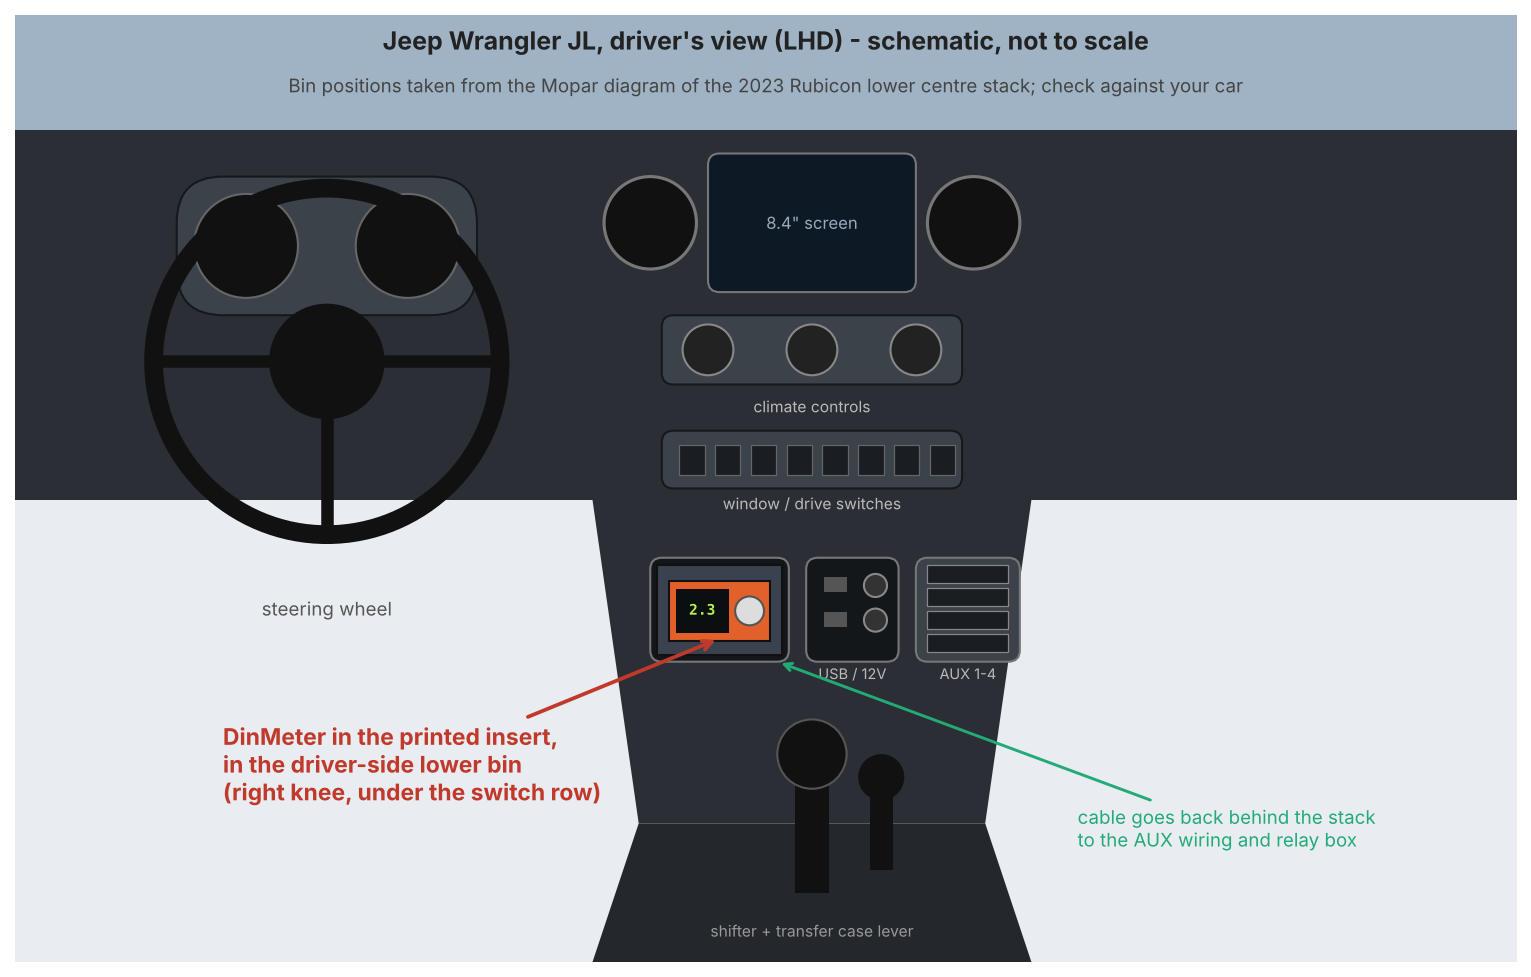
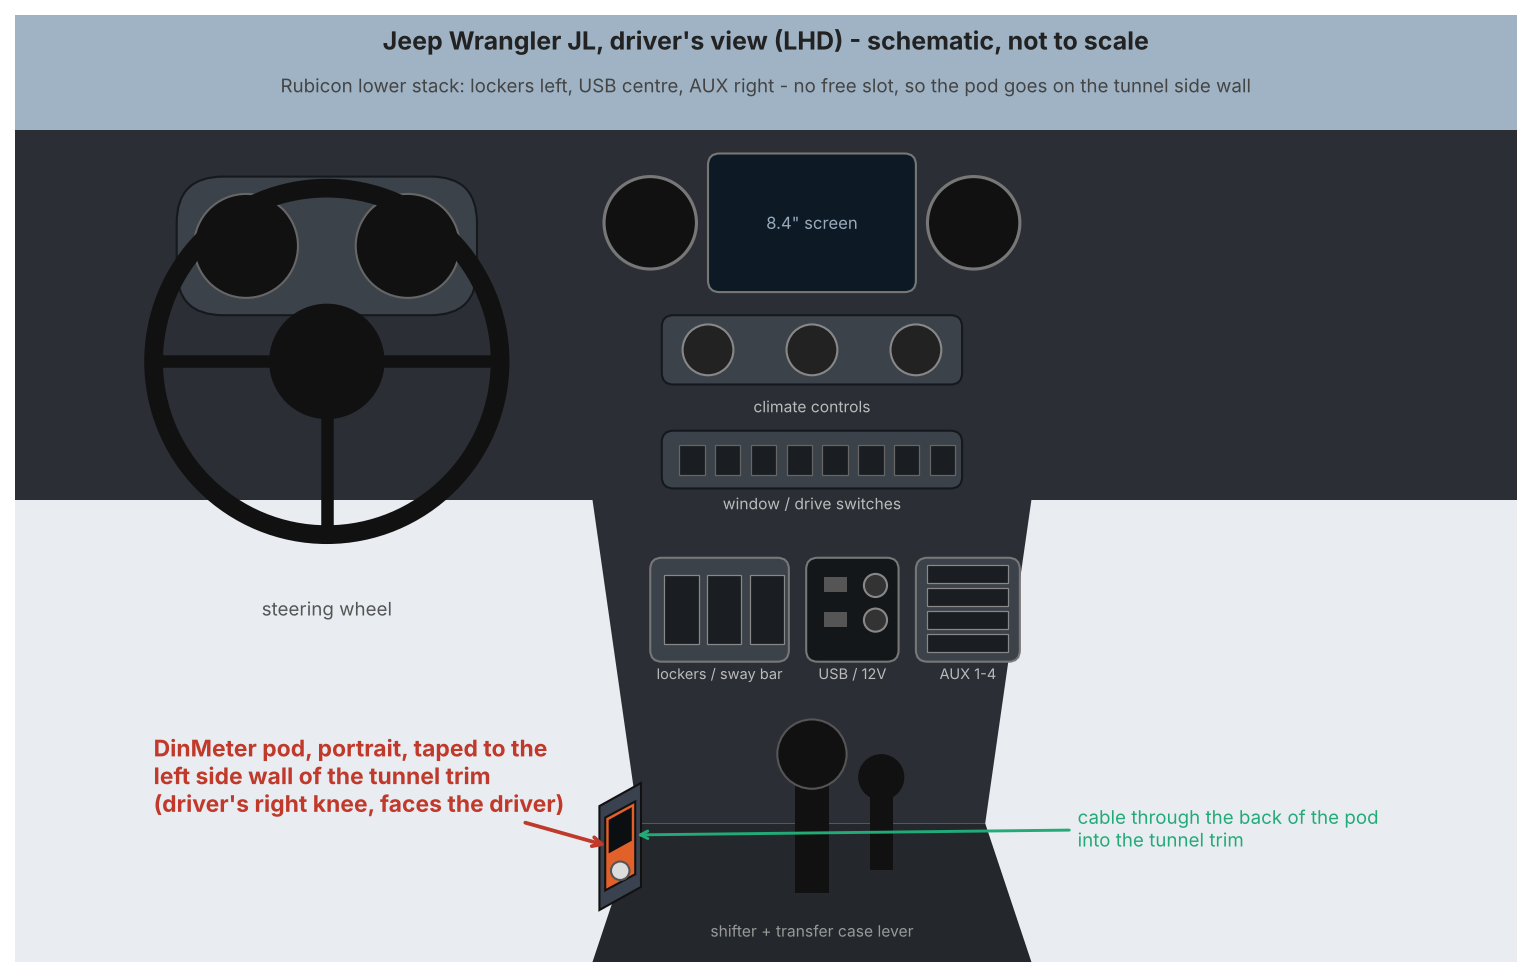
Interior sketch: Rubicon lower stack (lockers, USB, AUX), pod on the tunnel side wall
Claude-Session: https://claude.ai/code/session_018z5LvCZ9NFya6WZW91qW8w

diff --git a/hardware/enclosure/bin_insert/interior.py b/hardware/enclosure/bin_insert/interior.py
@@ -32,12 +32,14 @@ ax.add_patch(FancyBboxPatch((56,41),26,5,boxstyle='round,pad=0,rounding_size=1',
 for i in range(8): ax.add_patch(Rectangle((57.5+i*3.1,42.2),2.2,2.6,fc='#1a1d21',ec='#666',lw=.6))
 ax.text(69,39.2,'window / drive switches',ha='center',fontsize=7.5,color='#bbb')
 # lower stack: left bin with DinMeter, centre USB/12V, right AUX bank
-ax.add_patch(FancyBboxPatch((55,26),12,9,boxstyle='round,pad=0,rounding_size=1',fc='#14171a',ec='#777'))   # bin opening
-ax.add_patch(Rectangle((55.6,26.6),10.8,7.8,fc='#3a4250',ec='#111'))                                         # printed insert
-ax.add_patch(Rectangle((56.6,27.8),8.8,5.2,fc='#e2602a',ec='#111'))                                           # DinMeter front
-ax.add_patch(Rectangle((57.2,28.5),4.6,3.8,fc='#0c0f12'))
-ax.text(59.5,30.4,'2.3',color='#b6f34a',fontsize=7,ha='center',va='center',family='monospace',weight='bold')
-ax.add_patch(Circle((63.6,30.4),1.25,fc='#ddd',ec='#555'))
+ax.add_patch(FancyBboxPatch((55,26),12,9,boxstyle='round,pad=0,rounding_size=1',fc=trim,ec='#777'))
+for i in range(3): ax.add_patch(Rectangle((56.2+i*3.7,27.5),3,6,fc='#1a1d21',ec='#888',lw=.6))
+ax.text(61,24.5,'lockers / sway bar',ha='center',fontsize=7,color='#bbb')
+# DinMeter pod on the left side wall of the tunnel, at the driver's right knee
+ax.add_patch(Polygon([[50.6,4.5],[54.2,6.5],[54.2,15.5],[50.6,13.5]],fc='#3a4250',ec='#111'))
+ax.add_patch(Polygon([[51.1,6.2],[53.7,7.6],[53.7,13.9],[51.1,12.5]],fc='#e2602a',ec='#111'))
+ax.add_patch(Polygon([[51.4,9.4],[53.4,10.5],[53.4,13.4],[51.4,12.3]],fc='#0c0f12'))
+ax.add_patch(Circle((52.4,7.9),0.8,fc='#ddd',ec='#555'))
 ax.add_patch(FancyBboxPatch((68.5,26),8,9,boxstyle='round,pad=0,rounding_size=1',fc='#14171a',ec='#777'))
 for y in (32,29): ax.add_patch(Rectangle((70,y),2,1.3,fc='#555')); ax.add_patch(Circle((74.5,y+0.6),1,fc='#333',ec='#888'))
 ax.text(72.5,24.5,'USB / 12V',ha='center',fontsize=7,color='#bbb')
@@ -49,10 +51,10 @@ ax.add_patch(Rectangle((67.5,6),3,12,fc='#111')); ax.add_patch(Circle((69,18),3,
 ax.add_patch(Rectangle((74,8),2,8,fc='#111')); ax.add_patch(Circle((75,16),2,fc='#111'))
 ax.text(69,2.2,'shifter + transfer case lever',ha='center',fontsize=7.5,color='#999')
 # labels
-ax.annotate('DinMeter in the printed insert,\nin the driver-side lower bin\n(right knee, under the switch row)',xy=(61,28),xytext=(18,14),
+ax.annotate('DinMeter pod, portrait, taped to the\nleft side wall of the tunnel trim\n(driver\'s right knee, faces the driver)',xy=(51.5,10),xytext=(12,13),
             fontsize=11,color=lab,weight='bold',arrowprops=dict(arrowstyle='->',color=lab,lw=1.8))
-ax.annotate('cable goes back behind the stack\nto the AUX wiring and relay box',xy=(66,26),xytext=(92,10),fontsize=9,color='#2a7',
+ax.annotate('cable through the back of the pod\ninto the tunnel trim',xy=(53.5,11),xytext=(92,10),fontsize=9,color='#2a7',
             arrowprops=dict(arrowstyle='->',color='#2a7',lw=1.4))
 ax.text(65,79,'Jeep Wrangler JL, driver\'s view (LHD) - schematic, not to scale',ha='center',fontsize=12,weight='bold',color='#222')
-ax.text(65,75.3,'Bin positions taken from the Mopar diagram of the 2023 Rubicon lower centre stack; check against your car',ha='center',fontsize=9,color='#444')
+ax.text(65,75.3,'Rubicon lower stack: lockers left, USB centre, AUX right - no free slot, so the pod goes on the tunnel side wall',ha='center',fontsize=9,color='#444')
 plt.savefig('interior_location.png',dpi=150,bbox_inches='tight')
